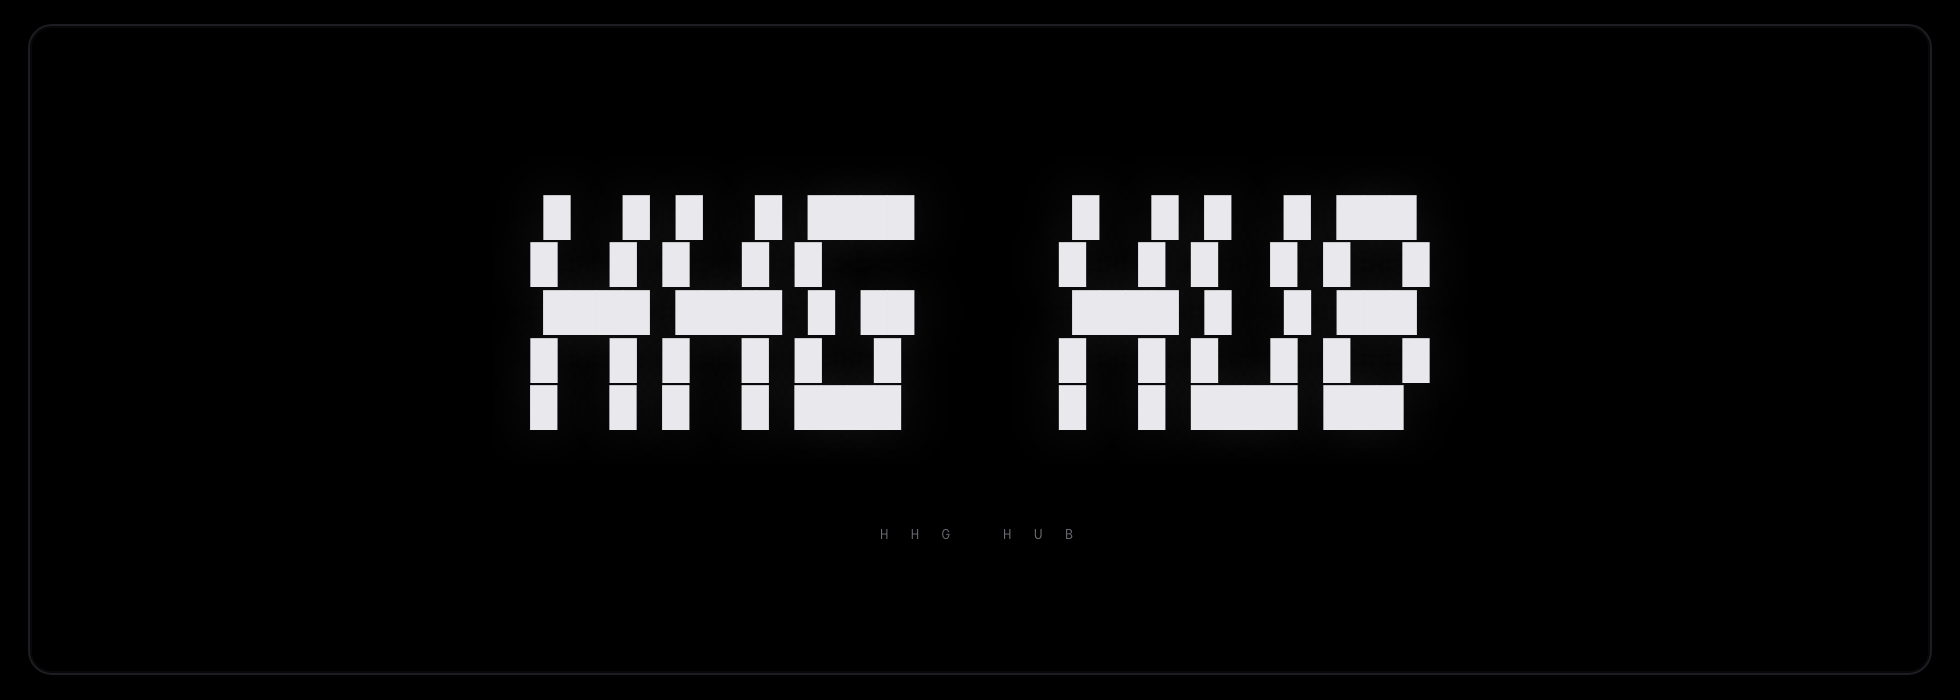
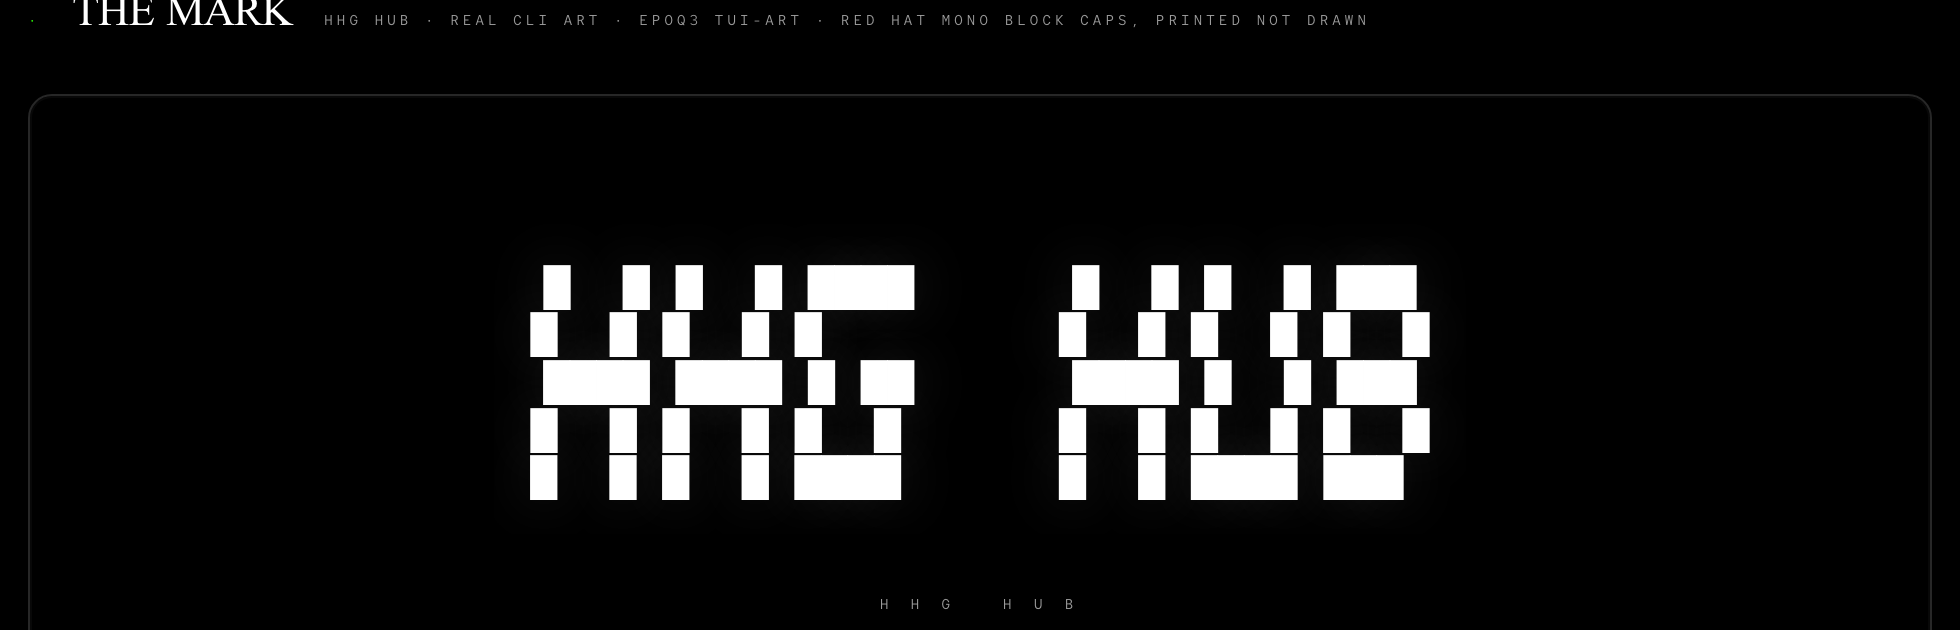
epoq3-conform: every ink is a live EPOQ III token (v3.58.1)
- the flag magenta (#D805FF/#B657C9) was pruned out of epoq3 → remap to --signal-go #8E00FF (the no-red signal); ANSI red/magenta slots → --signal-attn #3600DA / --signal-go #8E00FF
- paper #E8E8ED → #FFFFFF (real --paper); dim → --paper-62; motion ramp → epoq stops only
- demo, README palette table, ghostty/config, git colors, claude-code theme, shell scripts all conformed
- screenshots regenerated in the on-system look (green + epoq purple, true-white mark)

diff --git a/demo/index.html b/demo/index.html
@@ -9,12 +9,11 @@
 <link href="https://fonts.googleapis.com/css2?family=Scheherazade+New:wght@400;700&family=Red+Hat+Mono:wght@400;500;600;700&display=swap" rel="stylesheet">
 <style>
   :root{
-    /* on-system only: epoq inks + neutrals on the graphite→paper axis. no red, no foreign hue. */
-    --stage:#000000; --stage-2:#0A0A0A; --line:#272727;          /* graphite hairline — epoq3's true CLI black */
-    --paper:#E8E8ED; --dim:#6E6E78; --grey:#515151; --graph:#272727;  /* grey-51 = the dim token */
-    --live:#2CFF05; --shimmer:#1A8F00; --flag:#D805FF; --flagc:#B657C9;
-    --hum:#6F75D7; --dusk:#5F5295;
-    --mark-a:#8E00FF; --mark-b:#272727; --mark-c:#515151; --mark-d:#898989; --mark-e:#BFBFBF; --mark-f:#E5E5E5;
+    /* epoq3-conformant: every ink is a live EPOQ III token (system.css v3.58.1). no red, no magenta (pruned), no foreign hue. */
+    --stage:#000000; --stage-2:#0A0A0A; --line:#272727;          /* --ink (the stage) · near-ink surface · --graphite hairline */
+    --paper:#FFFFFF; --dim:rgba(255,255,255,.62); --grey:#515151; --graph:#272727;  /* --paper · --paper-62 (on-dark dim) · --grey-51 */
+    --live:#2CFF05; --flag:#8E00FF; --flagc:#8E00FF;             /* --signal-live (green) · --signal-go (purple) = the no-red flag + deletions */
+    --hum:#6F75D7; --dusk:#5F5295;                               /* --hum · --dusk */
 
     /* epoq3's real type system (system.css, verbatim) — serif carries the page, mono is a caption/code law */
     --font-serif:"Scheherazade New",Georgia,serif;
@@ -111,7 +110,7 @@
     font-size:var(--fz-mono-6);letter-spacing:var(--track-mono-6);text-transform:uppercase;padding:6px 12px;border-radius:5px;cursor:pointer;white-space:nowrap}
   .copy:hover{border-color:var(--live);color:var(--live)}
   .copy.ok{color:var(--live);border-color:var(--live)}
-  pre{margin:0;padding:18px;overflow-x:auto;font-family:var(--font-mono);font-size:var(--fz-mono-cli);line-height:var(--lh-mono-cli);color:#c9c9d0}
+  pre{margin:0;padding:18px;overflow-x:auto;font-family:var(--font-mono);font-size:var(--fz-mono-cli);line-height:var(--lh-mono-cli);color:rgba(255,255,255,.82)}
   pre .c{color:var(--dim)} /* comment */
 
   /* ── plan ── */
@@ -187,7 +186,7 @@
   <!-- ── THE MARK ─────────────────────────────────────── -->
   <section>
     <div class="sechead"><span class="n">·</span><h2>The mark</h2><span class="t">HHG HUB · real CLI art · epoq3 tui-art · Red Hat Mono block caps, printed not drawn</span></div>
-    <div class="term" style="border-color:#1c1c22">
+    <div class="term" style="border-color:var(--line)">
       <div class="term-body markwrap">
         <pre class="tui-art">█  █ █  █ ████      █  █ █  █ ███
 █  █ █  █ █         █  █ █  █ █  █
@@ -203,24 +202,23 @@
   <section>
     <div class="sechead"><span class="n">02</span><h2>The palette</h2><span class="t">epoq inks · the only hues on the stage</span></div>
     <div class="spectrum">
-      <span style="background:#2CFF05"></span><span style="background:#6F75D7"></span>
-      <span style="background:#5F5295"></span><span style="background:#B657C9"></span>
-      <span style="background:#D805FF"></span><span style="background:#515151"></span>
+      <span style="background:#2CFF05"></span><span style="background:#8E00FF"></span>
+      <span style="background:#3600DA"></span><span style="background:#6F75D7"></span>
+      <span style="background:#5F5295"></span><span style="background:#515151"></span>
       <span style="background:#272727"></span>
     </div>
     <div class="swatches">
       <div class="sw"><span class="chip" style="background:#2CFF05"></span><span class="tok live">signal-live</span><span class="hex">#2CFF05</span><span class="role">the live readout · cursor · additions · the pulse</span></div>
-      <div class="sw"><span class="chip" style="background:#D805FF"></span><span class="tok flag">signal-flag</span><span class="hex">#D805FF</span><span class="role">the flag · error · removed-word · bright-red slot</span></div>
-      <div class="sw"><span class="chip" style="background:#B657C9"></span><span class="tok flagc">flag-calm</span><span class="hex">#B657C9</span><span class="role">deletions · the calm magenta · red slot (retuned)</span></div>
+      <div class="sw"><span class="chip" style="background:#8E00FF"></span><span class="tok flag">signal-go</span><span class="hex">#8E00FF</span><span class="role">the no-red flag · error · deletions · removed-word</span></div>
       <div class="sw"><span class="chip" style="background:#6F75D7"></span><span class="tok hum">hum</span><span class="hex">#6F75D7</span><span class="role">the locator · hunk headers · warning</span></div>
       <div class="sw"><span class="chip" style="background:#5F5295"></span><span class="tok dusk">dusk</span><span class="hex">#5F5295</span><span class="role">seen / faded · selection · prompt border</span></div>
       <div class="sw"><span class="chip" style="background:#515151"></span><span class="tok dim">grey-51</span><span class="hex">#515151</span><span class="role">dim · meta · comments · untracked</span></div>
     </div>
     <div class="ramp">
       <span class="cap" style="margin-right:16px">MOTION</span>
-      <b style="background:#272727"></b><b style="background:#3a3a42"></b><b style="background:#515151"></b>
-      <b style="background:#5F5295"></b><b style="background:#6F75D7"></b><b style="background:#afb6ee"></b>
-      <span class="lbl">L0 → L5 · graphite to hum</span>
+      <b style="background:#272727"></b><b style="background:#515151"></b>
+      <b style="background:#5F5295"></b><b style="background:#6F75D7"></b>
+      <span class="lbl">graphite → grey-51 → dusk → hum · epoq tokens only</span>
     </div>
   </section>
 
@@ -263,21 +261,21 @@ cursor-text         = 000000
 selection-background = 2E2A45
 selection-foreground = F4F5F7
 
-# palette — epoq inks · NO RED (slots 1,9 retuned to flag magenta)
+# palette — NO RED · the red+magenta slots retune to epoq purples (--signal-attn / --signal-go)
 palette = 0=#2A2A31
-palette = 1=#B657C9
+palette = 1=#3600DA
 palette = 2=#59C24E
 palette = 3=#C9A227
 palette = 4=#6F75D7
-palette = 5=#B657C9
+palette = 5=#3600DA
 palette = 6=#5AA69E
 palette = 7=#C9CBD1
 palette = 8=#515151
-palette = 9=#D805FF
+palette = 9=#8E00FF
 palette = 10=#2CFF05
 palette = 11=#E6C34A
 palette = 12=#9098E0
-palette = 13=#D805FF
+palette = 13=#8E00FF
 palette = 14=#7FC7BF
 palette = 15=#F4F5F7
 
@@ -296,24 +294,24 @@ mouse-hide-while-typing = true</pre>
 
     <div class="card">
       <div class="card-h"><div class="l"><span class="name">3 · git — no-red diffs</span><span class="path">~/.gitconfig · runs once</span></div>
-        <span class="what">Deletions magenta, additions green, hunks hum-blue, meta dim. Kills red in diff + status + log.</span>
+        <span class="what">Deletions purple, additions green, hunks hum-blue, meta dim. Kills red in diff + status + log.</span>
         <button class="copy" data-src="git">Copy</button></div>
       <pre id="git">git config --global color.ui auto
 git config --global color.diff.meta       "#515151"
 git config --global color.diff.frag       "#6F75D7 bold"
 git config --global color.diff.func       "#5F5295"
 git config --global color.diff.commit     "#6F75D7"
-git config --global color.diff.old        "#B657C9"   <span class="c"># deletions — NOT red</span>
+git config --global color.diff.old        "#8E00FF"   <span class="c"># deletions — the no-red signal (--signal-go)</span>
 git config --global color.diff.new        "#59C24E"   <span class="c"># additions</span>
-git config --global color.diff.whitespace "reverse #D805FF"
+git config --global color.diff.whitespace "reverse #8E00FF"
 git config --global color.status.added     "#59C24E"
 git config --global color.status.changed   "#6F75D7"
 git config --global color.status.untracked "#515151"
-git config --global color.status.deleted   "#B657C9"
+git config --global color.status.deleted   "#8E00FF"
 git config --global color.status.branch    "#2CFF05"
 git config --global color.decorate.branch       "#2CFF05"
 git config --global color.decorate.remoteBranch "#6F75D7"
-git config --global color.decorate.HEAD         "#D805FF"
+git config --global color.decorate.HEAD         "#8E00FF"
 git config --global color.decorate.tag          "#5F5295"</pre>
     </div>
 
@@ -330,16 +328,15 @@ git config --global color.decorate.tag          "#5F5295"</pre>
   "name": "epoq",
   "base": "dark-ansi",
   "overrides": {
-    "claude":          "#2CFF05",   // the thinking pulse
-    "claudeShimmer":   "#1A8F00",
+    "claude":          "#2CFF05",   // the thinking pulse (--signal-live)
     "success":         "#2CFF05",
-    "error":           "#D805FF",
+    "error":           "#8E00FF",   // the no-red flag (--signal-go)
     "warning":         "#6F75D7",
     "promptBorder":    "#5F5295",
     "diffAdded":       "#12301A",
     "diffAddedWord":   "#1F5A2E",
-    "diffRemoved":     "#2A1230",   // no red
-    "diffRemovedWord": "#7A2E8A"
+    "diffRemoved":     "#1A0330",   // no red — a dark --signal-go tint
+    "diffRemovedWord": "#5C1A9E"
   }
 }</pre>
     </div>
@@ -378,7 +375,7 @@ esac
     <div class="prev">
       <div><div class="st">the stage</div><div class="bd">Ghostty skin trued to epoq — glass <span class="dim">#000000</span>, green live cursor, dusk selection.</div></div>
       <div><div class="st">the mark</div><div class="bd">HUB dot-matrix PNG was hallucinated → replaced by the <span class="dim">authored block-letter banner</span>, printed by the shell.</div></div>
-      <div><div class="st">no red</div><div class="bd">git diff/status/log retuned off red (magenta deletions); ANSI red slots 1,9 → flag magenta.</div></div>
+      <div><div class="st">no red</div><div class="bd">git diff/status/log retuned off red (deletions → <span class="dim">--signal-go</span> purple); ANSI red+magenta slots → epoq purples.</div></div>
       <div><div class="st">claude code</div><div class="bd">theme → <span class="dim">dark-ansi</span> (follows the palette); brand coral gone; <span class="dim">epoq.json</span> pins the pulse green.</div></div>
       <div><div class="st">the mono</div><div class="bd">Red Hat Mono installed (the real epoq <span class="dim">--font-mono</span>); IBM Plex retired to fallback.</div></div>
       <div><div class="st">this file</div><div class="bd">the handover — export + demo + deploy plan, one deployable page.</div></div>

diff --git a/README.md b/README.md
@@ -12,7 +12,8 @@
 
 The window is a glass stage (`#000000` — epoq3's true CLI black). Green is the one
 live signal allowed to glow. There is **no red anywhere** — deletions, errors, and
-flags read as magenta, so a `git diff` doesn't feel like an alarm. Free. Take it.
+flags read as **epoq purple** (`--signal-go`), so a `git diff` doesn't feel like an
+alarm. Every ink is a live EPOQ III token. Free. Take it.
 
 <p>
 <img src="screenshots/01-banner.png" width="49%" alt="The HHG HUB mark on the stage">
@@ -23,16 +24,16 @@ flags read as magenta, so a `git diff` doesn't feel like an alarm. Free. Take it
 
 ## The palette
 
-| ink | hex | role |
+| ink | hex | epoq3 token · role |
 |-----|-----|------|
-| **signal-live** | `#2CFF05` | the live readout · cursor · additions · the pulse |
-| **signal-flag** | `#D805FF` | the flag · error · removed-word |
-| **flag-calm** | `#B657C9` | deletions · the calm magenta (the retuned "red") |
-| **hum** | `#6F75D7` | the locator · hunk headers · warning |
-| **dusk** | `#5F5295` | seen / faded · selection · prompt border |
-| **grey-51** | `#515151` | dim · meta · comments |
-| stage | `#000000` | the glass stage (background) |
-| paper | `#E8E8ED` | foreground |
+| **signal-live** | `#2CFF05` | `--signal-live` — the live readout · cursor · additions · the pulse |
+| **signal-go** | `#8E00FF` | `--signal-go` — the no-red flag · error · deletions · removed-word |
+| **hum** | `#6F75D7` | `--hum` — the locator · hunk headers · warning |
+| **dusk** | `#5F5295` | `--dusk` — seen / faded · selection · prompt border |
+| **grey-51** | `#515151` | `--grey-51` — dim · meta · comments |
+| **graphite** | `#272727` | `--graphite` — hairlines · window chrome |
+| stage | `#000000` | `--ink` — the glass stage (background) |
+| paper | `#FFFFFF` | `--paper` — foreground |
 
 Type is **[Red Hat Mono](https://fonts.google.com/specimen/Red+Hat+Mono)** — the specimen mono.
 The mark is **real CLI art** — epoq3 `.tui-art`: Red Hat Mono block caps, printed on the
@@ -63,7 +64,7 @@ Requires Ghostty ≥ 1.2 (for `background-image`; the skin itself works on any v
 ```sh
 sh git/glass-stage-colors.sh
 ```
-Retunes `diff` / `status` / `log` colors globally: deletions magenta, additions
+Retunes `diff` / `status` / `log` colors globally: deletions purple, additions
 green, hunks hum-blue, meta dim. Reversible — the values live in `~/.gitconfig`.
 </details>
 
@@ -104,7 +105,7 @@ directly.
 ## Why no red
 
 Red is the default alarm of the terminal — and it's exhausting. THE GLASS STAGE
-routes every "negative" signal (deletions, errors, flags) through **magenta**
+routes every "negative" signal (deletions, errors, flags) through **the epoq purple** (`--signal-go`)
 instead: still distinct, still legible, never a jolt. One coherent palette, held
 across every tool that colors your day.
 
